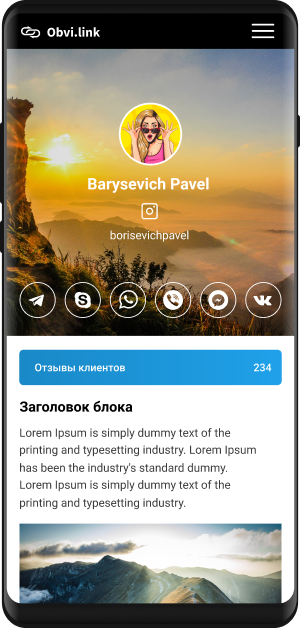
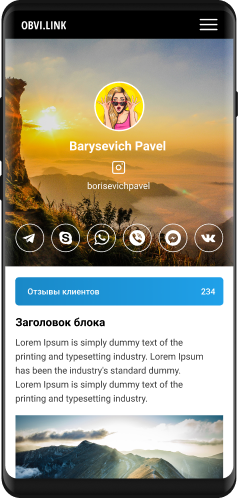
added slider

diff --git a/index.html b/index.html
@@ -3,7 +3,7 @@
 <head>
   <meta charset="UTF-8">
   <meta name="viewport" content="width=device-width, initial-scale=1.0">
-  
+
   <link rel="stylesheet" href="css/style.css">
   <title>Obvi link</title>
 </head>
@@ -38,8 +38,109 @@
       <button class="btn">
         Создать страницу бесплатно
       </button>
-      <div class="slider">
 
+      <div class="slider">
+        <input type="radio" id="slide-1" name="slider" class="visually-hidden" checked>
+        <input type="radio" id="slide-2" name="slider" class="visually-hidden">
+        <input type="radio" id="slide-3" name="slider" class="visually-hidden">
+        <input type="radio" id="slide-4" name="slider" class="visually-hidden">
+        <input type="radio" id="slide-5" name="slider" class="visually-hidden">
+        <input type="radio" id="slide-6" name="slider" class="visually-hidden">
+        <input type="radio" id="slide-7" name="slider" class="visually-hidden">
+        <input type="radio" id="slide-8" name="slider" class="visually-hidden">
+
+        <button class="slider__arrow slider__arrow_prev">
+          <svg width="14" height="16" viewBox="0 0 14 16" fill="none" xmlns="http://www.w3.org/2000/svg">
+            <path d="M13.0475 7.09271H3.05324L7.41956 2.11691C7.76851 1.71925 7.76851 1.06669 7.41956 0.669034C7.33679 0.574511 7.23847 0.49952 7.13023 0.448353C7.02199 0.397186 6.90595 0.37085 6.78877 0.37085C6.67159 0.37085 6.55556 0.397186 6.44732 0.448353C6.33908 0.49952 6.24076 0.574511 6.15798 0.669034L0.261661 7.3884C0.178716 7.48273 0.11291 7.59478 0.0680105 7.71813C0.0231113 7.84147 0 7.9737 0 8.10724C0 8.24078 0.0231113 8.37301 0.0680105 8.49636C0.11291 8.61971 0.178716 8.73175 0.261661 8.82608L6.15798 15.5455C6.24082 15.6398 6.33916 15.7147 6.44739 15.7658C6.55562 15.8169 6.67162 15.8432 6.78877 15.8432C6.90592 15.8432 7.02192 15.8169 7.13015 15.7658C7.23838 15.7147 7.33673 15.6398 7.41956 15.5455C7.5024 15.4511 7.56811 15.339 7.61294 15.2156C7.65777 15.0923 7.68084 14.9601 7.68084 14.8266C7.68084 14.6931 7.65777 14.5609 7.61294 14.4376C7.56811 14.3142 7.5024 14.2022 7.41956 14.1078L3.05324 9.13197H13.0475C13.5396 9.13197 13.9422 8.67314 13.9422 8.11234C13.9422 7.55154 13.5396 7.09271 13.0475 7.09271Z"/>
+          </svg>
+        </button>
+
+        <div class="slider__content">
+          
+          <article class="slider__slide">
+            <img src="img/screen-1.png" alt="">
+          </article>
+          
+          <article class="slider__slide">
+            <img src="img/screen-2.png" alt="">
+          </article>
+          
+          <article class="slider__slide">
+            <img src="img/screen-3.png" alt="">
+          </article>
+          
+          <article class="slider__slide">
+            <img src="img/screen-4.png" alt="">
+          </article>
+          
+          <article class="slider__slide">
+            <img src="img/map-5.png" alt="">
+          </article>
+          
+          <article class="slider__slide">
+            <img src="img/screen-6.png" alt="">
+          </article>
+          
+          <article class="slider__slide">
+            <img src="img/screen-7.png" alt="">
+          </article>
+          
+          <article class="slider__slide">
+            <img src="img/screen-8.png" alt="">
+          </article>
+          
+        </div>
+
+        
+        <button class="slider__arrow slider__arrow_next">
+          <svg width="14" height="16" viewBox="0 0 14 16" fill="none" xmlns="http://www.w3.org/2000/svg">
+            <path d="M13.0475 7.09271H3.05324L7.41956 2.11691C7.76851 1.71925 7.76851 1.06669 7.41956 0.669034C7.33679 0.574511 7.23847 0.49952 7.13023 0.448353C7.02199 0.397186 6.90595 0.37085 6.78877 0.37085C6.67159 0.37085 6.55556 0.397186 6.44732 0.448353C6.33908 0.49952 6.24076 0.574511 6.15798 0.669034L0.261661 7.3884C0.178716 7.48273 0.11291 7.59478 0.0680105 7.71813C0.0231113 7.84147 0 7.9737 0 8.10724C0 8.24078 0.0231113 8.37301 0.0680105 8.49636C0.11291 8.61971 0.178716 8.73175 0.261661 8.82608L6.15798 15.5455C6.24082 15.6398 6.33916 15.7147 6.44739 15.7658C6.55562 15.8169 6.67162 15.8432 6.78877 15.8432C6.90592 15.8432 7.02192 15.8169 7.13015 15.7658C7.23838 15.7147 7.33673 15.6398 7.41956 15.5455C7.5024 15.4511 7.56811 15.339 7.61294 15.2156C7.65777 15.0923 7.68084 14.9601 7.68084 14.8266C7.68084 14.6931 7.65777 14.5609 7.61294 14.4376C7.56811 14.3142 7.5024 14.2022 7.41956 14.1078L3.05324 9.13197H13.0475C13.5396 9.13197 13.9422 8.67314 13.9422 8.11234C13.9422 7.55154 13.5396 7.09271 13.0475 7.09271Z"/>
+          </svg>
+        </button>
+        <ul class="slider__dots">
+          <li>
+            <label for="slide-1" class="slider__toggle">
+              1
+            </label>
+          </li>
+          <li>
+            <label for="slide-2" class="slider__toggle">
+              2
+            </label>
+          </li>
+          <li>
+            <label for="slide-3" class="slider__toggle">
+              3
+            </label>
+          </li>
+          <li>
+            <label for="slide-4" class="slider__toggle">
+              4
+            </label>
+          </li>
+          <li>
+            <label for="slide-5" class="slider__toggle">
+              5
+            </label>
+          </li>
+          <li>
+            <label for="slide-6" class="slider__toggle">
+              6
+            </label>
+          </li>
+          <li>
+            <label for="slide-7" class="slider__toggle">
+              7
+            </label>
+          </li>
+          <li>
+            <label for="slide-8" class="slider__toggle">
+              8
+            </label>
+          </li>
+          
+        </ul>
+        
       </div>
     </section>
     

diff --git a/css/style.css b/css/style.css
@@ -320,7 +320,7 @@ body {
   font-family: "Source Sans 3", sans-serif;
   font-weight: 300;
   color: var(--main-color);
-  background-color: orange;
+  background-color: linear-gradient(27deg, #EFF243 -1.3%, #F0B379 101.01%);
 }
 
 img {
@@ -369,17 +369,17 @@ img {
 
 @font-face {
   font-family: "Source Sans 3";
-  src: url("SourceSans3-Light.woff2") format("woff2"), url("SourceSans3-Light.woff") format("woff");
+  src: url("../fonts/SourceSans3-Light.woff2") format("woff2"), url("../fonts/SourceSans3-Light.woff") format("woff");
   font-weight: 300;
 }
 @font-face {
   font-family: "Source Sans 3";
-  src: url("SourceSans3-Regular.woff2") format("woff2"), url("SourceSans3-Regular.woff") format("woff");
+  src: url("../fonts/SourceSans3-Regular.woff2") format("woff2"), url("../fonts/SourceSans3-Regular.woff") format("woff");
   font-weight: 400;
 }
 @font-face {
   font-family: "Source Sans 3";
-  src: url("SourceSans3-Bold.woff2") format("woff2"), url("SourceSans3-Bold.woff") format("woff");
+  src: url("../fonts/SourceSans3-Bold.woff2") format("woff2"), url("../fonts/SourceSans3-Bold.woff") format("woff");
   font-weight: 700;
 }
 .toggle_nav {
@@ -524,4 +524,82 @@ input#show_menu:checked ~ .nav {
   line-height: 1.5;
   margin: 0 0 10px;
   font-weight: 300;
+}
+
+.slider__arrow {
+  display: none;
+}
+.slider__slide {
+  display: none;
+}
+.slider__content {
+  margin-bottom: 36px;
+}
+.slider__dots {
+  display: flex;
+  justify-content: center;
+  align-items: center;
+  gap: 6px;
+  list-style: none;
+  margin: 0;
+  padding: 0;
+}
+.slider__toggle {
+  display: block;
+  width: 16px;
+  height: 16px;
+  border-radius: 50%;
+  background: #E2E2E2;
+  cursor: pointer;
+  font-size: 0;
+  color: transparent;
+  overflow: hidden;
+}
+.slider input:nth-child(1):checked ~ .slider__content .slider__slide:nth-child(1) {
+  display: block;
+}
+.slider input:nth-child(1):checked ~ .slider__dots li:nth-child(1) .slider__toggle {
+  background: #000;
+}
+.slider input:nth-child(2):checked ~ .slider__content .slider__slide:nth-child(2) {
+  display: block;
+}
+.slider input:nth-child(2):checked ~ .slider__dots li:nth-child(2) .slider__toggle {
+  background: #000;
+}
+.slider input:nth-child(3):checked ~ .slider__content .slider__slide:nth-child(3) {
+  display: block;
+}
+.slider input:nth-child(3):checked ~ .slider__dots li:nth-child(3) .slider__toggle {
+  background: #000;
+}
+.slider input:nth-child(4):checked ~ .slider__content .slider__slide:nth-child(4) {
+  display: block;
+}
+.slider input:nth-child(4):checked ~ .slider__dots li:nth-child(4) .slider__toggle {
+  background: #000;
+}
+.slider input:nth-child(5):checked ~ .slider__content .slider__slide:nth-child(5) {
+  display: block;
+}
+.slider input:nth-child(5):checked ~ .slider__dots li:nth-child(5) .slider__toggle {
+  background: #000;
+}
+.slider input:nth-child(6):checked ~ .slider__content .slider__slide:nth-child(6) {
+  display: block;
+}
+.slider input:nth-child(6):checked ~ .slider__dots li:nth-child(6) .slider__toggle {
+  background: #000;
+}
+.slider input:nth-child(7):checked ~ .slider__content .slider__slide:nth-child(7) {
+  display: block;
+}
+.slider input:nth-child(7):checked ~ .slider__dots li:nth-child(7) .slider__toggle {
+  background: #000;
+}
+.slider input:nth-child(8):checked ~ .slider__content .slider__slide:nth-child(8) {
+  display: block;
+}
+.slider input:nth-child(8):checked ~ .slider__dots li:nth-child(8) .slider__toggle {
+  background: #000;
 }/*# sourceMappingURL=style.css.map */

diff --git a/sass/_fonts.scss b/sass/_fonts.scss
@@ -1,19 +1,19 @@
 @font-face {
   font-family: 'Source Sans 3';
-  src: url('SourceSans3-Light.woff2') format('woff2'),
-      url('SourceSans3-Light.woff') format('woff');
+  src: url('../fonts/SourceSans3-Light.woff2') format('woff2'),
+      url('../fonts/SourceSans3-Light.woff') format('woff');
   font-weight: 300;
 }
 @font-face {
   font-family: 'Source Sans 3';
-  src: url('SourceSans3-Regular.woff2') format('woff2'),
-      url('SourceSans3-Regular.woff') format('woff');
+  src: url('../fonts/SourceSans3-Regular.woff2') format('woff2'),
+      url('../fonts/SourceSans3-Regular.woff') format('woff');
   font-weight: 400;
 }
 @font-face {
   font-family: 'Source Sans 3';
-  src: url('SourceSans3-Bold.woff2') format('woff2'),
-      url('SourceSans3-Bold.woff') format('woff');
+  src: url('../fonts/SourceSans3-Bold.woff2') format('woff2'),
+      url('../fonts/SourceSans3-Bold.woff') format('woff');
   font-weight: 700;
 }
 

diff --git a/sass/_slider.scss b/sass/_slider.scss
@@ -1,0 +1,42 @@
+.slider {
+  &__arrow {
+    display: none;
+  }
+  &__slide {
+    display: none;
+  }
+  &__content {
+    margin-bottom: 36px;
+  }
+  &__dots {
+    display: flex;
+    justify-content: center;
+    align-items: center;
+    gap: 6px;
+    list-style: none;
+    margin: 0;
+    padding: 0;
+  }
+  &__toggle {
+    display: block;
+    width: 16px;
+    height: 16px;
+    border-radius: 50%;
+    background: #E2E2E2;
+    cursor: pointer;
+    font-size: 0;
+    color: transparent;
+    overflow: hidden;
+  }
+  
+  @for $index from 1 through 8 {
+    input:nth-child(#{$index}):checked {
+      & ~ .slider__content .slider__slide:nth-child(#{$index}) {
+        display: block;
+      }
+      & ~ .slider__dots li:nth-child(#{$index}) .slider__toggle {
+        background: #000;
+      }
+    }
+  }
+}

diff --git a/sass/_global.scss b/sass/_global.scss
@@ -5,7 +5,7 @@ body {
   font-family: 'Source Sans 3', sans-serif;
   font-weight: 300;
   color: var(--main-color);
-  background-color: orange;
+  background-color: linear-gradient(27deg, #EFF243 -1.3%, #F0B379 101.01%);
 }
 img {
   display: block;

diff --git a/sass/style.scss b/sass/style.scss
@@ -5,3 +5,4 @@
 @import "nav";
 @import "header";
 @import "offer";
+@import "slider";
